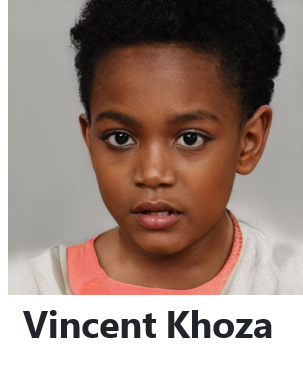
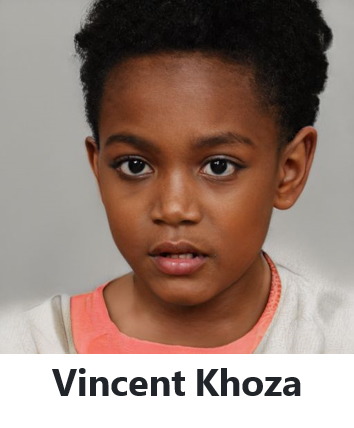
Made Pictures look better and got rid of blogtempcite

diff --git a/Blogs/Blog7-ActuallyFiguringItOut.html b/Blogs/Blog7-ActuallyFiguringItOut.html
@@ -6,7 +6,7 @@
 </head>
 
 <body
-    onload="LoadBlogPost('Actually Figuring It Out','HUGE IDEA! I finally figured out what I want to do with the creative side of the site. When watching the show Mindhunter, a large part of season two was about the Child Atlanta murders. 28 people, mostly children and adolescents, were murdered. This happened in the late 70s and early 80s. I don’t know a lot of details of the real case, but the show was interesting and has inspired me. I think this will be far easier to write a story about and base it in Johannesburg especially. The issue with the cases is that the police basically didn’t care about these missing black children. The murders were written off as drug or gang related and dismissed. It wasn’t put together that there was a serial killer at large until a few months later, I think. This is a clear example of the racism that is and was present in the police force. I think this can largely be applied to a story set in South Africa. There will be many children that are dying, the deaths of which weren’t connected until much later on. This will still tie in to what I want where Sadie links that there is a serial killer present, but also highlight racism in the country. I have used an AI generator to get pictures of young black children to be the victims and I have made up some names. I will come up with a story for each victim and Sadie will be the one who theorises that there is one person behind all this. I feel much happier about this idea as I will not be talking about real killings. I had a fear that when talking about the ABC killings that I was not going to do the story justice. The most important part of the story will be the fact that the police are doing nothing to solve the case. I would also like to compare the publicity of kidnappings of white children in South Africa to these made up cases. More research needs to be done in order to create a proper narrative.','Blogs/Blog7-ActuallyFiguringItOut.html')">
+    onload="LoadBlogPost('Actually Figuring It Out','HUGE IDEA! I finally figured out what I want to do with the creative side of the site. When watching the show Mindhunter, a large part of season two was about the Child Atlanta murders. 28 people, mostly children and adolescents, were murdered. This happened in the late 70s and early 80s. I don’t know a lot of details of the real case, but the show was interesting and has inspired me. I think this will be far easier to write a story about and base it in Johannesburg especially. The issue with the cases is that the police basically didn’t care about these missing black children. The murders were written off as drug or gang related and dismissed. It wasn’t put together that there was a serial killer at large until a few months later, I think. This is a clear example of the racism that is and was present in the police force. I think this can largely be applied to a story set in South Africa. There will be many children that are dying, the deaths of which weren’t connected until much later on. This will still tie in to what I want where Sadie links that there is a serial killer present, but also highlight racism in the country. I have used an AI generator to get pictures of young black children to be the victims and I have made up some names. I will come up with a story for each victim and Sadie will be the one who theorises that there is one person behind all this. I feel much happier about this idea as I will not be talking about real killings. I had a fear that when talking about the ABC killings that I was not going to do the story justice. The most important part of the story will be the fact that the police are doing nothing to solve the case. I would also like to compare the publicity of kidnappings of white children in South Africa to these made up cases. More research needs to be done in order to create a proper narrative.', '','Blogs/Blog7-ActuallyFiguringItOut.html')">
 </body>
 
 </html>

diff --git a/Blogs/Blog6-CreativeBrainstorm.html b/Blogs/Blog6-CreativeBrainstorm.html
@@ -6,7 +6,7 @@
 </head>
 
 <body
-    onload="LoadBlogPost('Creative Brainstorm','When trying to make up a serial killer, I am trying not to be too insensitive. The ABC Killer (Moses Sithole) is the biggest serial killer in South Africa, who murdered at least 38 people. He was called the ABC Killer because he killed in Atteridgeville, Boksburg and Cleveland. Tamsen de Beer (a journalist) was called by Sithole. Sithole identified himself as the ABC Killer and had to tell her where a body was to confirm he was the killer. Sithole murdered women with their own clothes, which was a very clear Modus Operandi. He told women that he had job prospects for them and would lead them away. This is an interesting story and initially I was going to put myself in the place of de Beer, but decided against it. I want to be able to have some creative freedom when creating this killer. I still want this website to be from a crime writer who helps solve a crime. An obvious example of this is Michelle Mcnamara, a crime writer who wrote a book about the East Area Rapist, who she later coined the Golden State Killer. She helped essentially solve the case by creating the name Golden State Killer which created more publicity for the unsolved crime.  I want to have Sadie Garner be a writer like Michelle Mcnamara who helps coin the name of the killer. Another Johannesburg killer is Cedric Maake. His case is super interesting because initially, two criminal profiles were created for him because of the different MOs. He shot women, bludgeoned couples to death with rocks and killed tailors with hammers. The two different profiles were eventually connected when evidence began to overlap. I think I want to create a killer with no clear MO. I also want Sadie Garner to coin the name and make the connection between initially unconnected cases.', 'Blogs/Blog6-CreativeBrainstorm.html')">
+    onload="LoadBlogPost('Creative Brainstorm','When trying to make up a serial killer, I am trying not to be too insensitive. The ABC Killer (Moses Sithole) is the biggest serial killer in South Africa, who murdered at least 38 people. He was called the ABC Killer because he killed in Atteridgeville, Boksburg and Cleveland. Tamsen de Beer (a journalist) was called by Sithole. Sithole identified himself as the ABC Killer and had to tell her where a body was to confirm he was the killer. Sithole murdered women with their own clothes, which was a very clear Modus Operandi. He told women that he had job prospects for them and would lead them away. This is an interesting story and initially I was going to put myself in the place of de Beer, but decided against it. I want to be able to have some creative freedom when creating this killer. I still want this website to be from a crime writer who helps solve a crime. An obvious example of this is Michelle Mcnamara, a crime writer who wrote a book about the East Area Rapist, who she later coined the Golden State Killer. She helped essentially solve the case by creating the name Golden State Killer which created more publicity for the unsolved crime.  I want to have Sadie Garner be a writer like Michelle Mcnamara who helps coin the name of the killer. Another Johannesburg killer is Cedric Maake. His case is super interesting because initially, two criminal profiles were created for him because of the different MOs. He shot women, bludgeoned couples to death with rocks and killed tailors with hammers. The two different profiles were eventually connected when evidence began to overlap. I think I want to create a killer with no clear MO. I also want Sadie Garner to coin the name and make the connection between initially unconnected cases.', '', 'Blogs/Blog6-CreativeBrainstorm.html')">
 </body>
 
 </html>

diff --git a/Blogs/Blog5-Accessibility.html b/Blogs/Blog5-Accessibility.html
@@ -6,7 +6,7 @@
 </head>
 
 <body
-    onload="LoadBlogPost('The Importance of Accessibility','A website in 2020 should be accessible to all types of people. By accessible, I mean that the people with disabilities are not excluded when accessing a website. Websites should be easy and convenient for all people to use. People who are colour-blind, dyslexic, blind etc. should be able to use a site with ease. Businesses can even benefit from making their sites accessible as they are allowing more people to be able to read up on their services online and therefore entice them to use and take interest in their product or service. Accessing the web in 2020 is a basic human right. Important resources like educational videos, banking services and social sites should be accessible to all people. There are many ways to make a site accessible. Adding alternative text to an image is one small way to make a site more accessible. For example, an image of a cat could have alternative text that says  &quotAn image of a cat &quot. This means that when a blind person is navigating a site using screen readers, the images are described. For users that cannot use a mouse, making a website accessible through the use of the keyboard is essential. For deaf users, transcripts for audio aspects of your site is important. For dyslexic users, making sure that fonts used are easy to read is good practise. For colour blind users, a website with colours that have enough contrast to be visible. Creating a website that is accessible can be as simple as adding a bit more functionality and changing your font and colours.', 'Blogs/Blog5-Accessibility.html')">
+    onload="LoadBlogPost('The Importance of Accessibility','A website in 2020 should be accessible to all types of people. By accessible, I mean that the people with disabilities are not excluded when accessing a website. Websites should be easy and convenient for all people to use. People who are colour-blind, dyslexic, blind etc. should be able to use a site with ease. Businesses can even benefit from making their sites accessible as they are allowing more people to be able to read up on their services online and therefore entice them to use and take interest in their product or service. Accessing the web in 2020 is a basic human right. Important resources like educational videos, banking services and social sites should be accessible to all people. There are many ways to make a site accessible. Adding alternative text to an image is one small way to make a site more accessible. For example, an image of a cat could have alternative text that says  &quotAn image of a cat &quot. This means that when a blind person is navigating a site using screen readers, the images are described. For users that cannot use a mouse, making a website accessible through the use of the keyboard is essential. For deaf users, transcripts for audio aspects of your site is important. For dyslexic users, making sure that fonts used are easy to read is good practise. For colour blind users, a website with colours that have enough contrast to be visible. Creating a website that is accessible can be as simple as adding a bit more functionality and changing your font and colours.', '','Blogs/Blog5-Accessibility.html')">
 </body>
 
 </html>

diff --git a/Blogs/Blog9-BeingIntoTrueCrime.html b/Blogs/Blog9-BeingIntoTrueCrime.html
@@ -9,7 +9,7 @@
     onload="LoadBlogPost('Being &quotInto &quot True Crime But Also Believing All Cops Are Bastards',` <p style = &quot margin-bottom: 1rem;&quot>I have reached a cross roads. For this website, I am creating a character that is an investigative journalist. She wanted to be a cop. In this recent political climate, with the Black Lives Matter movement, I have started to believe that ACAB (All Cops Are Bastards). This is very similar to the All Men Are Trash movement in my opinion. There are some good men, but all men have the capacity to be “trash”. I am one of those crazy white girls who are obsessed with true crime. I listen to true crime podcasts, watch true crime shows, the like. When following these stories, the police seem to be the Good Guys. A typical villain versus hero story. </p>` +
 `<p style = &quot margin-bottom: 1rem;&quot>I used to fully support the police and what they stand for, but now I realise this is a flawed approach. This is why I have decided that Sadie will be wanting to take matters into her own hands and discuss the inequalities in the justice system. I think this will highlight my beliefs more. When looking at many of my favourite true crime cases, there are so many examples of the cops being completely and utterly useless. Murders get out of prison and kill again. This is because of the broken justice system.</p> ` +
 `<p style = &quot margin-bottom: 1rem;&quot>A basic google search turned up the injustice in the South Africa in the persecution of black and white killers. Sibusiso Mpungose, a black man who killed his four children, has gotten four life terms in prison. Michael White, a white man who killed his pregnant wife 15 years ago is now allowed unsupervised prison leave. He needs “family time” with his grown up daughter, who witnessed the murder. HOW can you say that one person gets four life sentences and another gets unsupervised family time? It’s so frustrating. This is an example of dangerous killer being put away for life, a win in my opinion, and a white man getting FAMILY TIME. He stabbed his pregnant wife to death and gets FAMILY TIME. God help me.</p> ` +
-`<p style = &quot margin-bottom: 1rem;&quot>This could just be me trying to rationalise having a certain belief while also trying to still be interested in true crime. I have never faced any experienced any discrimination from the police, and perhaps that is why I read these stories. I am hoping that making Sadie take matters in her own hands and fight for the attention from the media and police will highlight my beliefs. I think the justice system and the police need to change in this country.</p>`,'Blogs/Blog9-BeingIntoTrueCrime.html')">
+`<p style = &quot margin-bottom: 1rem;&quot>This could just be me trying to rationalise having a certain belief while also trying to still be interested in true crime. I have never faced any experienced any discrimination from the police, and perhaps that is why I read these stories. I am hoping that making Sadie take matters in her own hands and fight for the attention from the media and police will highlight my beliefs. I think the justice system and the police need to change in this country.</p>`, '', 'Blogs/Blog9-BeingIntoTrueCrime.html')">
 </body>
 
 </html>

diff --git a/js/blogtemplate.js b/js/blogtemplate.js
@@ -1,6 +1,6 @@
-function LoadBlogPost(BlogTitle, BlogContent, BlogLocation) {
+function LoadBlogPost(BlogTitle, BlogContent, References, BlogLocation) {
     document.querySelector("head").innerHTML +=
-        `<title>Sadie Garner</title>
+        ` <title>Sadie Garner</title>
         <meta name="viewport" content="width=device-width, initial-scale=1.0">
         <meta charset="utf-8">
         <meta name="author" content="Amy Pegram, 1825142">
@@ -13,10 +13,8 @@ function LoadBlogPost(BlogTitle, BlogContent, BlogLocation) {
         <meta property="og:description" content="Blog: ` + BlogTitle + ` ">
 
         <link href="/WSOA3028A_1825142/css/stylesheet.css" rel="stylesheet">`;
-
     document.querySelector("body").innerHTML +=
-        `
-        <nav>
+        `<nav>
             <ul>
                 <a id="home" href="/WSOA3028A_1825142/index.html"><img src="/WSOA3028A_1825142/Logo.png" alt="Logo: A picture of the scales of justice." height=30rem> Sadie Garner</a>
                 <li><a href="/WSOA3028A_1825142/contact.html">CONTACT</a></li>
@@ -25,15 +23,15 @@ function LoadBlogPost(BlogTitle, BlogContent, BlogLocation) {
                         <li><a style="border: none" href="/WSOA3028A_1825142/Blogs/Blog1-RRLibraryOfBabel.html">Library of Babel</a>
                         </li>
                         <li><a style="border: none" href="/WSOA3028A_1825142/Blogs/Blog2-Character Description.html">Character
-        Description</a>
+            Description</a>
                         </li>
                         <li><a style="border: none" href="/WSOA3028A_1825142/Blogs/Blog3-RRComputingMachiney.html">Computing Machinery and
-        Intelligence</a></li>
+            Intelligence</a></li>
                         <li><a style="border: none" href="/WSOA3028A_1825142/Blogs/Blog4-WhatAreBrowsers.html">What are Browsers and
-        URLs?</a>
+            URLs?</a>
                         </li>
                         <li> <a style="border: none" href="/WSOA3028A_1825142/Blogs/Blog5-Accessibility.html">The Importance of
-        Accessibility</a>
+            Accessibility</a>
                         </li>
                         <li><a style="border: none"
                             href="/WSOA3028A_1825142/Blogs/Blog6-CreativeBrainstorm.html">Creative Brainstorm</a>
@@ -48,9 +46,17 @@ function LoadBlogPost(BlogTitle, BlogContent, BlogLocation) {
                 </li>
                 <li><a href="/WSOA3028A_1825142/Victims/">VICTIMS</a></li>
             </ul>
-        </nav>
+        </nav> 
+        
         <section class="container">
             <h1 class="headingRow">` + BlogTitle + `</h1>
-            <article class="articleRow"> ` + BlogContent + `</article>
-        </section>`;
-}
+            <article class="articleRow" style=&quot margin-bottom: 1rem &quot> ` + BlogContent + `</article>`;
+    if (References != '') {
+        document.querySelector("body").innerHTML +=
+            ` <article class="referencesRow"><h3 style="text-align:center">References</h3>`
+            + References + ` </article></section>`
+    }
+    else {
+        document.querySelector("body").innerHTML += '</section>'
+    }
+};

diff --git a/Blogs/Blog2-Character Description.html b/Blogs/Blog2-Character Description.html
@@ -6,7 +6,7 @@
 </head>
 
 <body
-    onload="LoadBlogPost('Character Description','Sadie Garner is a 21-year-old aspiring crime writer living in Johannesburg in 1995. She was born in Edenvale. She is a short, blonde girl. She originally wanted to be a policewoman, but decided she was too small to be able to overpower criminals. She then figured that she should still try to solve crimes from afar through crime writing. As a prolific serial killer begins to terrorise Johannesburg, she decides she would take matters into her own hands by writing a book on thesupposedly linked killings. She created a website in order to keep track of her thoughts, while also hoping someone would be able to contact her with more information. Her website gains popularity when a press release confirms all her thoughts about the killer. She gained an interest in true crime when an acquaintance in her school was kidnapped in 1990. The girl was walking home from school when a man and wife in a van grabbed her. There was only one witness. Jan Burger was the chief detective on the case and solved it. The girl’s body was found a month later. Burger is Sadie’s role model. Her goal in life is to be able to meet him and discuss every detail of his life. Sadie is a bubbly girl, who is close with her family. She wrote for the school newspaper. She got an internship at the Edenvale news but quit because she found most of the stories she had to write were very mundane. She is unemployed but hopes to become a writer for a South African crime magazine.', 'Blogs/Blog2-Character Description.html')">
+    onload="LoadBlogPost('Character Description','Sadie Garner is a 21-year-old aspiring crime writer living in Johannesburg in 1995. She was born in Edenvale. She is a short, blonde girl. She originally wanted to be a policewoman, but decided she was too small to be able to overpower criminals. She then figured that she should still try to solve crimes from afar through crime writing. As a prolific serial killer begins to terrorise Johannesburg, she decides she would take matters into her own hands by writing a book on thesupposedly linked killings. She created a website in order to keep track of her thoughts, while also hoping someone would be able to contact her with more information. Her website gains popularity when a press release confirms all her thoughts about the killer. She gained an interest in true crime when an acquaintance in her school was kidnapped in 1990. The girl was walking home from school when a man and wife in a van grabbed her. There was only one witness. Jan Burger was the chief detective on the case and solved it. The girl’s body was found a month later. Burger is Sadie’s role model. Her goal in life is to be able to meet him and discuss every detail of his life. Sadie is a bubbly girl, who is close with her family. She wrote for the school newspaper. She got an internship at the Edenvale news but quit because she found most of the stories she had to write were very mundane. She is unemployed but hopes to become a writer for a South African crime magazine.', '', 'Blogs/Blog2-Character Description.html')">
 </body>
 
 </html>

diff --git a/Blogs/Blog1-RRLibraryOfBabel.html b/Blogs/Blog1-RRLibraryOfBabel.html
@@ -7,7 +7,7 @@
 
 <body onload="LoadBlogPost('Reading Reflection: Library of Babel - Jorge Luis Borges','The Library of Babel speaks of a fictional library that contains every possible combination of the &quot25&quot symbols in the English alphabet. This would mean that every book that could ever possibly be written is contained in this library, nonsensical or otherwise. My first impression of the reading was that I was quite confused by the concept. This was because of the serious and academic tone of the paper, along with the footnotes. For a moment I thought that this Library of Babel did really exist and that I was missing out on something. Then I realised that the concept of infinity itself is a blur and there is most definitely not enough trees left in this world to create this. Needless to say, I enjoyed the paper.' +
 'It could be said that the internet is the Library of Babel, and I both agree and disagree. The internet can definitely seem endless, replicating the infiniteness of the Library. My thought is that no one would make a completely nonsensical website, or two different websites that differ by one letter, or three, or four, or an infinite number. Then again, people have been creating &quotmeme&quot and nonsensical websites for years. So, there could perhaps be a finite version of the Library of Babel online. Another argument that the Library could be created is human nature. The reading about the Library of Babel exists, for everyone to read. Would that not mean that a group of dedicated people could spend their lives trying to create the Library of Babel online? Algorithms can be used to create the Library. Although, it would be impossible to create infinite amounts of storage, there just aren’t enough resources on earth. Unless in the future inventors create a way to clone resources.' +
-'In the reading, the concept of a Book-Man is brought up. This is a person who has found a book that is the perfect combination of all other books, and once they have read it they have risen to a god-like state. This concept interests me. Could creating the Library of Babel inevitably lead us to the meaning of life? Would we even realise that this book describes such a thing? One would probably assume that it’s fiction. Perhaps generating an infinite amount of random content could lead humans to the answers to questions we never even thought to ask.'
+'In the reading, the concept of a Book-Man is brought up. This is a person who has found a book that is the perfect combination of all other books, and once they have read it they have risen to a god-like state. This concept interests me. Could creating the Library of Babel inevitably lead us to the meaning of life? Would we even realise that this book describes such a thing? One would probably assume that it’s fiction. Perhaps generating an infinite amount of random content could lead humans to the answers to questions we never even thought to ask.',''
 , 'Blogs/Blog1-RRLibraryOfBabel.html')">
 </body>
 

diff --git a/contact.html b/contact.html
@@ -33,14 +33,27 @@
             <br></br>
             <p>Email Me</p>
             <p style="font-family: Georgia, 'Times New Roman', Times, serif;">Email: Sadie.Garner@hotmail.com</p>
+            <section><img src=" /WSOA3028A_1825142/Victims/VictimsPics/Victim1.png" alt="Nhlanhla Visser, Age 13"
+                    height=200rem style="margin: 1rem">
+                <img src=" /WSOA3028A_1825142/Victims/VictimsPics/Victim2.png" alt="Vincent Khoza, Age 8" height=200rem
+                    style="margin: 1rem">
+                <img src=" /WSOA3028A_1825142/Victims/VictimsPics/Victim3.png" alt="Terence Motaung, Age 14"
+                    height=200rem style="margin: 1rem">
+                <img src=" /WSOA3028A_1825142/Victims/VictimsPics/Victim4.png" alt="Kgomotso Ndhlovu, Age 15"
+                    height=200rem style="margin: 1rem">
+                <img src=" /WSOA3028A_1825142/Victims/VictimsPics/Victim5.png" alt="Pamela Njandi, Age 13" height=200rem
+                    style="margin: 1rem">
+                <img src=" /WSOA3028A_1825142/Victims/VictimsPics/Victim6.png" alt="Nelly Khumalo, Age 14" height=200rem
+                    style="margin: 1rem">
+                <img src=" /WSOA3028A_1825142/Victims/VictimsPics/Victim7.png" alt="Pinimidzai Maseko, Age 15"
+                    height=200rem style="margin: 1rem">
+                <img src=" /WSOA3028A_1825142/Victims/VictimsPics/Victim8.png" alt="Sheronisa Dladla, Age 8"
+                    height=200rem style="margin: 1rem">
+            </section>
+
+            <cite style="grid-row: 15/16; margin-top: 0.5rem">Photos generated by:<a
+                    href="https://generated.photos/">https://generated.photos/</a></cite>
+            <cite style="grid-row: 15/16; display: inline; text-align: right;">Logo from:<a
+                    href="https://images.app.goo.gl/DcXDybGdsEBeVHpC9">
         </section>
-        <p class="pictureRow" style="grid-row: 6/7;"><img src=" /WSOA3028A_1825142/Victims/VictimsPics/LargeVictim.png"
-                alt="Picutre of a girl with red hair, smiling." height=500rem></p>
-        <cite style="grid-row: 15/16; margin-top: 0.5rem">Photos generated by:<a
-                href="https://generated.photos/">https://generated.photos/</a></cite>
-        <cite style="grid-row: 15/16; display: inline; text-align: right; margin-top: 0.5rem">Logo from:<a
-                href="https://images.app.goo.gl/DcXDybGdsEBeVHpC9">
-                https://images.app.goo.gl/DcXDybGdsEBeVHpC9</a></cite>
-        </p>
-    </section>
 </body>

diff --git a/Blogs/Blog3-RRComputingMachiney.html b/Blogs/Blog3-RRComputingMachiney.html
@@ -2,7 +2,7 @@
 <html>
 
 <head>
-    <script src="/WSOA3028A_1825142/js/blogtemplatecite.js" async></script>
+    <script src="/WSOA3028A_1825142/js/blogtemplate.js" async></script>
 </head>
 
 <body

diff --git a/Blogs/Blog4-WhatAreBrowsers.html b/Blogs/Blog4-WhatAreBrowsers.html
@@ -2,7 +2,7 @@
 <html>
 
 <head>
-    <script src="/WSOA3028A_1825142/js/blogtemplatecite.js" async></script>
+    <script src="/WSOA3028A_1825142/js/blogtemplate.js" async></script>
 </head>
 
 <body
